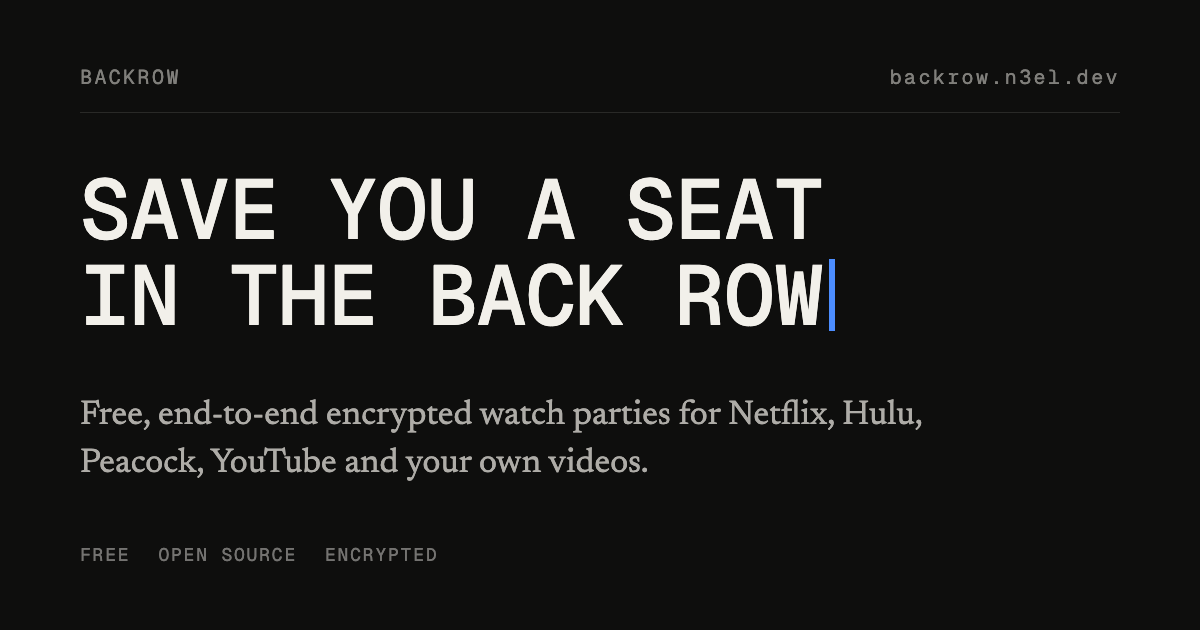
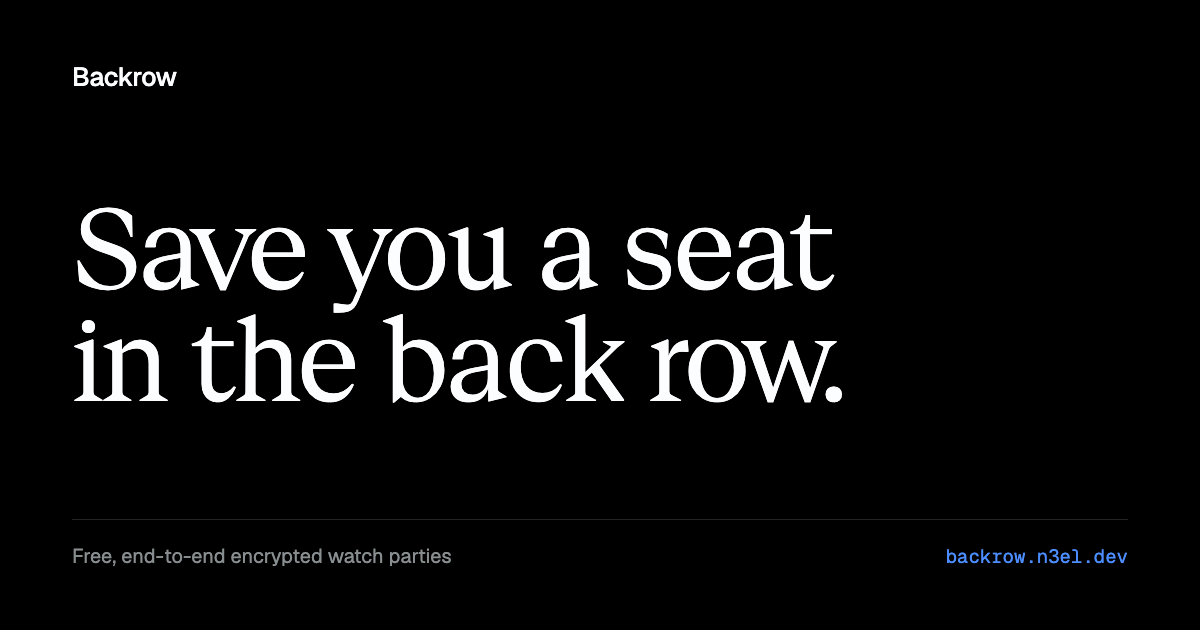
feat: regenerate link-preview image in Blackletter

diff --git a/web/og/og.html b/web/og/og.html
@@ -1,0 +1,18 @@
+<!doctype html>
+<html><head><meta charset="utf-8">
+<!-- Source for the link-preview image next to this file. Render at exactly 1200x630 with headless Chrome. Blackletter (~/DESIGN.md), same family as xanom-co/og/og.html. -->
+<link rel="stylesheet" href="https://fonts.googleapis.com/css2?family=Geist:wght@400;500&family=Geist+Mono:wght@400&display=swap">
+<style>
+  @font-face{font-family:"Geist Serif";src:url(https://cdn.jsdelivr.net/npm/geist@1.9.0/dist/fonts/geist-serif/GeistSerifVF.woff2) format("woff2");font-weight:100 900}
+  html,body{margin:0;width:1200px;height:630px;background:#000;color:#FCFDFF}
+  body{display:flex;flex-direction:column;justify-content:space-between;padding:64px 72px;box-sizing:border-box;font-family:"Geist",sans-serif}
+  .l{font:500 26px/1 "Geist";letter-spacing:-.01em}
+  h1{font:400 112px/1 "Geist Serif",Georgia,serif;letter-spacing:-.02em;margin:0}
+  .row{display:flex;justify-content:space-between;align-items:baseline;gap:40px;font:400 20px/1 "Geist";color:#888E90;border-top:1px solid rgba(255,255,255,.14);padding-top:26px}
+  .row .d{font:400 19px/1 "Geist Mono",monospace;color:#4C8DFF;white-space:nowrap}
+</style></head>
+<body>
+  <div class="l">Backrow</div>
+  <h1>Save you a seat<br>in the back row.</h1>
+  <div class="row"><span>Free, end-to-end encrypted watch parties</span><span class="d">backrow.n3el.dev</span></div>
+</body></html>
